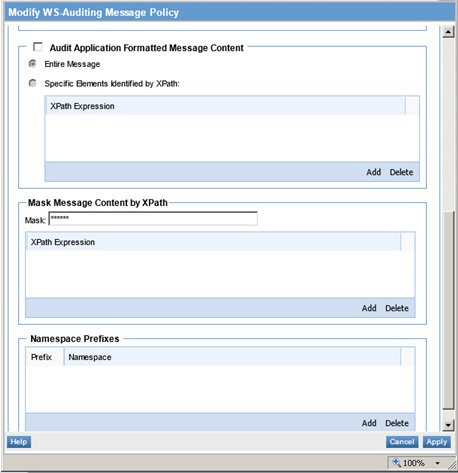
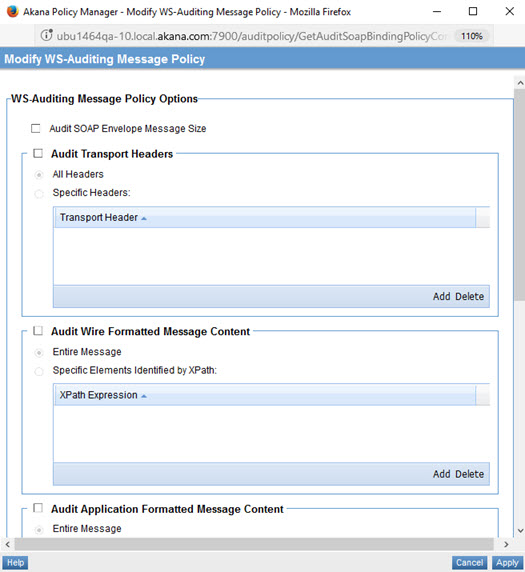
ATMO-23246

diff --git a/ag/policies/policy_op_ws_auditing_message.htm b/ag/policies/policy_op_ws_auditing_message.htm
@@ -18,7 +18,7 @@ nav-title: WS-Auditing Message Policy
 <a href="policies_operational_about.htm" class="button secondary">About Operational Policies</a>
 </p>
 
-<h5 class="stamp">Supported Platforms: 7.x and later</h5>
+
 
 <div class = "divider1"></div>
 
@@ -57,14 +57,13 @@ nav-title: WS-Auditing Message Policy
 
 
 <h3 id="ws_auditing_message_policy_modify">Configuring a WS-Auditing Message Policy</h3>
-<h5 id="">To configure a WS-Auditing Message policy</h5>
+<h5 id="proc_policy_config">To configure a WS-Auditing Message policy</h5>
 <ol>
 	<li>Go to <strong>Workbench</strong> &gt; <strong>Browse</strong> &gt; <strong>Organization</strong> and select the <strong>Policies</strong> &gt; <strong>Operational Policies</strong> folder. The <strong>Policies Summary</strong> is displayed.</li>
 <li>Find the policy on the list and double-click to go to the <strong>Details</strong> page for the policy.</li>
 <li>In the second panel, click <strong>Modify</strong> to access the <strong>Modify WS-Auditing Message Policy</strong> page, as shown below.
 <p><img src="images/ws_auditing_modify_01.jpg" alt=""/></p>
-<p><img src="images/ws_auditing_modify_01.jpg" alt=""/></p>
-</p>
+<p><img src="images/ws_auditing_modify_02.jpg" alt=""/></p>
 </li>
 	<li>Specify values. For information about the fields, refer to <a href="#ws_auditing_message_policy_options">WS-Auditing Message policy options</a> below.</li>
 <li>When done, click <strong>Apply</strong>.</li>
@@ -122,9 +121,7 @@ nav-title: WS-Auditing Message Policy
 
 
 <dt>Namespace Prefixes</dt>
-<dd>A table that allows you to specify an XPath that audited messages must satisfy. The &quot;Namespace Prefixes&quot; table allows you to enter one or more Namespace Prefix expressions for filtering messages. The table includes &quot;Prefix&quot; and &quot;Namespace&quot; table cells. The table cells are editable. Click <strong>Add</strong> or <strong>Delete</strong> to modify the list. You can also sort the list by clicking the table header.</dd>
-
-<dd>&nbsp;</dd>
+<dd>A table that allows you to specify an XPath expression that audited messages must satisfy. The <strong>Namespace Prefixes</strong> table allows you to enter one or more Namespace Prefix expressions for filtering messages. The table includes <strong>Prefix</strong> and <strong>Namespace</strong> table cells. The table cells are editable. Click <strong>Add</strong> or <strong>Delete</strong> to modify the list. You can also sort the list by clicking the table header.</dd>
 </dl>
 <p>When you're done, save the changes.</p>
 <p><a href="#top">back to top</a></p>

diff --git a/ag/policies/policy_op_ws_auditing_service.htm b/ag/policies/policy_op_ws_auditing_service.htm
@@ -18,7 +18,7 @@ nav-title: WS-Auditing Service Policy
 <a href="policies_operational_about.htm" class="button secondary">About Operational Policies</a>
 </p>
 
-<h5 class="stamp">Supported Platforms: 7.x and later</h5>
+
 
 <div class = "divider1"></div>
 
@@ -82,7 +82,7 @@ nav-title: WS-Auditing Service Policy
 <p><strong>Exchanges resulting in an error</strong>: Enables the ability to audit only messages with errors.</p>
 <p><strong>Percentage of exchanges</strong>: Enables the ability to audit messages a random sample of messages based on a specified percentage. This option includes a text box that allows you to enter an integer percentage between 1 and 99.</p>
 <p><strong>Messages where XPath evaluates to true</strong>: Enables the ability to audit messages that satisfy a specified XPath. This option includes a "Namespace Prefixes" table that allows you to enter an XPath expression for filtering messages, defining Prefix and Namespace for each XPath expression. Click Add or Delete to modify the list. You can also sort the list by clicking the table header.</p></li>
-</ul>
+</ul></dd>
 
 
 <dt>Audit Messages: additional options</dt>
@@ -139,7 +139,6 @@ nav-title: WS-Auditing Service Policy
 <li>Find the policy on the list and double-click to go to the <strong>Details</strong> page for the policy.</li>
 </ol>
 <p>From this page the following options are available:</p>
-<ol>
 <ul>
 <li><strong>Modify</strong>: A link that launches the "Modify WS-Auditing Service Policy" screen.</li>
 <li><strong>Audit Message Size</strong>: Indicates whether size of messages in the exchange should be audited.</li>
@@ -154,5 +153,4 @@ nav-title: WS-Auditing Service Policy
 <li><strong>Alert</strong>: Indicates whether audit information is being delivered in an event.</li>
 <li><strong>Phase</strong>: A read-only label that indicates the phase of message processing (Application or Wire) when auditing occurs.</li>
 </ul>
-</ol>
 <p><a href="#top">Back to top</a></p>

diff --git a/ag/policies/policy_op_ws_security_transport_binding.htm b/ag/policies/policy_op_ws_security_transport_binding.htm
@@ -18,7 +18,7 @@ nav-title: WS-Security Transport Binding Policy
 <a href="policies_operational_about.htm" class="button secondary">About Operational Policies</a>
 </p>
 
-<h5 class="stamp">Supported Platforms: 7.x and later</h5>
+
 
 <div class = "divider1"></div>
 
@@ -43,7 +43,7 @@ nav-title: WS-Security Transport Binding Policy
 
 
 
-<h3 id="ws_security_transport_binding_policy_about">About the WS-Security Transport Binding policy</a></h3>
+<h3 id="ws_security_transport_binding_policy_about">About the WS-Security Transport Binding policy</h3>
 
 <p>The &quot;WS-Security Transport Binding Policy&quot; is used when the message protection is provided by the transport medium. A common usage scenario is using HTTPS as the message exchange transport medium. In a transport binding assertion, a transport token can be defined where messages can be contained and then exchanged only through a defined medium. WS-Security policy specification defines a HTTPS token that defines messages be transmitted over HTTPS.</p>
 <p><a href="#top">back to top</a></p>
@@ -78,8 +78,6 @@ nav-title: WS-Security Transport Binding Policy
 <li>In page 7, <strong>Specify Security Audit Options</strong>, specify audit options. For details, see <a href="#specify_security_audit_options">Specify Security Audit Options</a> below.</li>
 <li>Click <strong>Finish</strong>.</li>
 </ol>
-<p><a href="#top">back to top</a></p>
-<p>&nbsp;</p>
 <p><a href="#top">back to top</a></p>
 
 
@@ -147,7 +145,7 @@ nav-title: WS-Security Transport Binding Policy
 <li>TripleDesSHA256Rsa15</li>
 </ul>
 </dd>
-</dt>
+
 
 <dt>Canonicalization</dt>
 <dd>Allows you to select the canonical form used to test whether information content of an XML document has changed.</dd>

diff --git a/ag/policies/policy_op_ws_security_symmetric_binding.htm b/ag/policies/policy_op_ws_security_symmetric_binding.htm
@@ -176,9 +176,7 @@ nav-title: WS-Security Symmetric Binding Policy
 <dt>Issuer Serial</dt>
 <dd>This option uses the <strong>&lt;ds:X509IssuerSerial&gt;</strong> element to specify a reference to an X.509 security token by means of the certificate issuer name and serial number.</dd>
 <dt>Embedded Token</dt>
-<dd>This option uses the <strong>&lt;wsse:Embedded&gt;</strong> element specified within a <strong>&lt;wsse:SecurityTokenReference&gt;</strong> element to create a reference to an embedded token.
-</dt>
-</dd>
+<dd>This option uses the <strong>&lt;wsse:Embedded&gt;</strong> element specified within a <strong>&lt;wsse:SecurityTokenReference&gt;</strong> element to create a reference to an embedded token.</dd>
 <dt>Thumbprint</dt>
 <dd>This option is a Key Identifier ValueType is used to specify a reference to an X.509 certificate by means of a reference to its X.509 Thumbprint attribute.</dd>
 <dt>Derived Keys</dt>
@@ -332,7 +330,6 @@ nav-title: WS-Security Symmetric Binding Policy
 <li>TripleDesSHA256Rsa15</li>
 </ul>
 </dd>
-</dt>
 
 <dt>Canonicalization</dt>
 <dd>Allows you to select the canonical form used to test whether information content of an XML document has changed.</dd>

diff --git a/ag/policies/policy_op_ws_malicious_pattern_detection.htm b/ag/policies/policy_op_ws_malicious_pattern_detection.htm
@@ -18,7 +18,7 @@ nav-title: WS-Malicious Pattern Detection Policy
 <a href="policies_operational_about.htm" class="button secondary">About Operational Policies</a>
 </p>
 
-<h5 class="stamp">Supported Platforms: 7.x and later</h5>
+
 
 <div class = "divider1"></div>
 
@@ -65,7 +65,6 @@ nav-title: WS-Malicious Pattern Detection Policy
 <li>Find the policy on the list and double-click to go to the <strong>Details</strong> page for the policy.</li>
 <li>In the second panel, click <strong>Modify</strong> to access the <strong>Modify WS-Malicious Pattern Detection Policy</strong> page, as shown below.
 <p><img src="images/ws_malicious_pattern_detection_02_modify.jpg" alt=""/></p>
-</p>
 </li>
 <li>Specify values. For information about the fields, refer to <a href="#ws_malicious_pattern_detection_policy_options">WS-Malicious Pattern Detection policy options</a> below.</li>
 <li>When done, click <strong>Apply</strong>.</li>

diff --git a/ag/policies/policy_op_ws_security_supporting_tokens.htm b/ag/policies/policy_op_ws_security_supporting_tokens.htm
@@ -18,7 +18,7 @@ nav-title: WS-Security Supporting Tokens Policy
 <a href="policies_operational_about.htm" class="button secondary">About Operational Policies</a>
 </p>
 
-<h5 class="stamp">Supported Platforms: 7.x and later</h5>
+
 
 <div class = "divider1"></div>
 
@@ -190,8 +190,7 @@ nav-title: WS-Security Supporting Tokens Policy
 
 
 <dt>Embedded Token</dt>
-<dd>This option uses the <strong>&lt;wsse:Embedded&gt;</strong> element specified within a &lt;wsse:SecurityTokenReference&gt; to create a reference to an embedded token.
-</dt>
+<dd>This option uses the <strong>&lt;wsse:Embedded&gt;</strong> element specified within a &lt;wsse:SecurityTokenReference&gt; to create a reference to an embedded token.</dd>
 
 <dt>Thumbprint</dt>
 <dd>This option is a Key Identifier ValueType is used to specify a reference to an X.509 certificate by means of a reference to its X.509 Thumbprint attribute.</dd>

diff --git a/ag/policies/policy_op_ws_addressing.htm b/ag/policies/policy_op_ws_addressing.htm
@@ -18,7 +18,7 @@ nav-title: WS-Addressing Policy
 <a href="policies_operational_about.htm" class="button secondary">About Operational Policies</a>
 </p>
 
-<h5 class="stamp">Supported Platforms: 7.x and later</h5>
+
 
 <div class = "divider1"></div>
 
@@ -68,8 +68,7 @@ nav-title: WS-Addressing Policy
 	<li>Specify values for the policy as needed. For information on the individual options, see <a href="#ws_addressing_policy_options">WS-Addressing Policy Options</a> below.</li>
 	<li>Save the policy definition.</li>
 </ol>
-</p>
-That completes the policy configuration. You can now assign the policy to a service.
+<p>That completes the policy configuration. You can now assign the policy to a service.</p>
 <p><a href="#top">back to top</a></p>
 
 

diff --git a/ag/policies/policy_op_ws_auditing_transaction_tracking.htm b/ag/policies/policy_op_ws_auditing_transaction_tracking.htm
@@ -18,7 +18,7 @@ nav-title: WS-Auditing Transaction Tracking Policy
 <a href="policies_operational_about.htm" class="button secondary">About Operational Policies</a>
 </p>
 
-<h5 class="stamp">Supported Platforms: 7.x and later</h5>
+
 
 <div class = "divider1"></div>
 

diff --git a/ag/policies/policy_op_ws_security_message.htm b/ag/policies/policy_op_ws_security_message.htm
@@ -18,7 +18,7 @@ nav-title: WS-Security Message Policy
 <a href="policies_operational_about.htm" class="button secondary">About Operational Policies</a>
 </p>
 
-<h5 class="stamp">Supported Platforms: 7.x and later</h5>
+
 
 <div class = "divider1"></div>
 

diff --git a/ag/policies/policy_op_cross_site_scripting.htm b/ag/policies/policy_op_cross_site_scripting.htm
@@ -18,7 +18,7 @@ nav-title: Cross-Site Scripting
 <a href="policies_operational_about.htm" class="button secondary">About Operational Policies</a>
 </p>
 
-<h5 class="stamp">Supported Platforms: 7.x and later</h5>
+
 
 <div class = "divider1"></div>
 

diff --git a/ag/policies/policy_op_anti_virus.htm b/ag/policies/policy_op_anti_virus.htm
@@ -18,7 +18,7 @@ nav-title: Anti-Virus
 <a href="policies_operational_about.htm" class="button secondary">About Operational Policies</a>
 </p>
 
-<h5 class="stamp">Supported Platforms: 7.x and later</h5>
+
 
 <div class = "divider1"></div>
 
